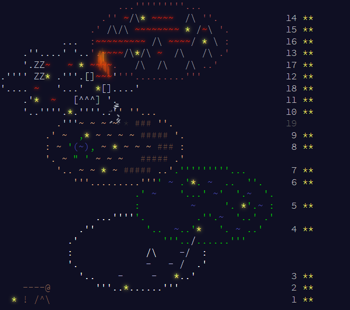
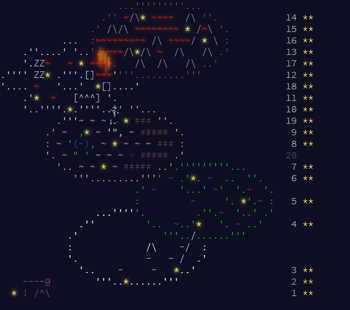
Day 19

diff --git a/2023/main_page/aoc/index_19.html b/2023/main_page/aoc/index_19.html
@@ -1,0 +1,144 @@
+<!DOCTYPE html>
+<html lang="en-us">
+<head>
+<meta charset="utf-8"/>
+<title>Advent of Code 2023</title>
+<!--[if lt IE 9]><script src="html5.js"></script><![endif]-->
+<link href='SourceCodePro.css' rel='stylesheet' type='text/css'>
+<link rel="stylesheet" type="text/css" href="style.css"/>
+<link rel="stylesheet alternate" type="text/css" href="highcontrast.css?0" title="High Contrast"/>
+<link rel="shortcut icon" href="favicon.png"/>
+</head><body>
+<main>
+<style>
+.calendar .calendar-color-a { color:#a5a8af; }
+.calendar .gearfall {
+  position: relative;
+}
+.calendar .gearfall > span {
+  position: absolute;
+  animation: anim-calendar-gearfall-b 3s linear infinite;
+  display: inline-block;
+  color: #d4dde4;
+  pointer-events: none;
+}
+.calendar .gearfall > span.gearfall-whozit, .calendar .gearfall > span.gearfall-whatzit, .calendar .gearfall > span.gearfall-thingamabob {
+  animation-name: anim-calendar-gearfall-t;
+}
+@keyframes anim-calendar-gearfall-b {
+    0% { transform: translateY(0)   rotate(0)     translateY(-.5ch); opacity:0.0; }
+   20% {                                                             opacity:1.0; }
+   80% {                                                             opacity:1.0; }
+  100% { transform: translateY(4ch) rotate(2turn) translateY(-.5ch); opacity:0.0; }
+}
+@keyframes anim-calendar-gearfall-t {
+    0% { transform: translateY(0)   rotate(0)     translateY(.5ch); opacity:0.0; }
+   10% {                                                            opacity:1.0; }
+   90% {                                                            opacity:1.0; }
+  100% { transform: translateY(4ch) rotate(2turn) translateY(.5ch); opacity:0.0; }
+}
+
+.calendar .calendar-color-n { color:#9b715b; }
+.calendar .calendar-color-m { color:#d4dde4; }
+.calendar .calendar-color-k { color:#6b4d3b; }
+.calendar .calendar-color-b { color:#5555bb; }
+.calendar .calendar-color-v { color:#df2308; text-shadow:0 0 5px #df2308, 0 0 10px #df2308; }
+.calendar .calendar-color-w { color:#ffffff; }
+.calendar .calendar-color-s { color:#e3b585; }
+.calendar .calendar-color-g { color:#00cc00; }
+.calendar .calendar-color-l { color:#ccccff; }
+.calendar .calendar-color-y { color:#ffff66; text-shadow:0 0 5px #ffff66, 0 0 10px #ffff66; }
+.calendar .calendar-color-i { color:#a25151; }
+.calendar .lavafall {
+  position: relative;
+}
+.calendar .lavafall > span {
+  position: absolute;
+  animation: anim-calendar-lavafall 3s linear infinite;
+  display: inline-block;
+  pointer-events: none;
+}
+@keyframes anim-calendar-lavafall {
+    0% { transform: translateY(0);   opacity:0.0; color:#faa718; text-shadow: 0 0 3px #faa718, 0 0 5px #faa718, 0 0 10px #faa718, 0 0 15px #faa718, 0 0 20px #faa718; }
+   20% {                             opacity:0.8; }
+   80% {                             opacity:0.8; }
+  100% { transform: translateY(3ch); opacity:0.0; color:#df2308; text-shadow: 0 0 3px #df2308, 0 0 5px #df2308, 0 0 10px #df2308, 0 0 15px #df2308, 0 0 20px #df2308; }
+}
+
+</style>
+<pre class="calendar"><a aria-label="Day 14, two stars" href="day_14.html" class="calendar-day14 calendar-verycomplete">                     <span class="calendar-color-i">...'''''''''...</span>                    
+                  <span class="calendar-color-i">.''</span> <span class="calendar-color-v">~</span><span class="calendar-color-a">/\</span><span class="calendar-color-y">*</span> <span class="calendar-color-v">~~~~</span>  <span class="calendar-color-a">/\</span> <span class="calendar-color-i">''.</span>            <span class="calendar-day">14</span> <span class="calendar-mark-complete">*</span><span class="calendar-mark-verycomplete">*</span></a>
+<a aria-label="Day 15, two stars" href="day_15.html" class="calendar-day15 calendar-verycomplete">                <span class="calendar-color-i">.'</span> <span class="calendar-color-a">/\/\</span> <span class="calendar-color-v">~~~~~~~~</span> <span class="calendar-color-y">*</span> <span class="calendar-color-a">/</span><span class="calendar-color-v">~</span><span class="calendar-color-a">\</span> <span class="calendar-color-i">'.</span>          <span class="calendar-day">15</span> <span class="calendar-mark-complete">*</span><span class="calendar-mark-verycomplete">*</span></a>
+<a aria-label="Day 16, two stars" href="day_16.html" class="calendar-day16 calendar-verycomplete">           <span class="calendar-color-m">...</span>  <span class="calendar-color-i">:</span><span class="calendar-color-v">~~~~~~~~~</span> <span class="calendar-color-a">/\</span> <span class="calendar-color-v">~~~~</span><span class="calendar-color-a">/</span> <span class="calendar-color-y">*</span> <span class="calendar-color-a">\</span> <span class="calendar-color-i">:</span>          <span class="calendar-day">16</span> <span class="calendar-mark-complete">*</span><span class="calendar-mark-verycomplete">*</span></a>
+<a aria-label="Day 13, two stars" href="day_13.html" class="calendar-day13 calendar-verycomplete">    <span class="calendar-color-m">.''....'</span> <span class="calendar-color-m">'..</span><span class="calendar-color-i">'.<span class="lavafall" style=""><span style="left:4.5px;top:4.5px;animation-delay:-0.05s">|</span><span style="left:9.8px;top:9.8px;animation-delay:-0.71s">|</span><span style="left:-1.6px;top:-1.6px;animation-delay:-0.69s">|</span><span style="left:-7.1px;top:-7.1px;animation-delay:-1.22s">|</span><span style="left:4.2px;top:4.2px;animation-delay:-1.82s">|</span><span style="left:10.5px;top:10.5px;animation-delay:-0.50s">|</span><span style="left:-4.4px;top:-4.4px;animation-delay:-2.00s">|</span><span style="left:-0.8px;top:-0.8px;animation-delay:-2.93s">|</span><span style="left:-7.2px;top:-7.2px;animation-delay:-1.52s">|</span><span style="left:-9.7px;top:-9.7px;animation-delay:-1.24s">|</span><span style="left:-9.4px;top:-9.4px;animation-delay:-2.23s">|</span><span style="left:-5.2px;top:-5.2px;animation-delay:-2.67s">|</span><span style="left:1.8px;top:1.8px;animation-delay:-0.64s">|</span><span style="left:-4.9px;top:-4.9px;animation-delay:-0.69s">|</span><span style="left:10.2px;top:10.2px;animation-delay:-1.10s">|</span><span style="left:5.0px;top:5.0px;animation-delay:-0.23s">|</span><span style="left:-7.1px;top:-7.1px;animation-delay:-0.10s">|</span><span style="left:10.0px;top:10.0px;animation-delay:-2.85s">|</span><span style="left:5.1px;top:5.1px;animation-delay:-2.38s">|</span><span style="left:2.8px;top:2.8px;animation-delay:-2.55s">|</span></span></span><span class="calendar-color-v">~~~~</span><span class="calendar-color-a">/\</span><span class="calendar-color-y">*</span><span class="calendar-color-a">/\</span> <span class="calendar-color-v">~</span>  <span class="calendar-color-a">/\</span>   <span class="calendar-color-a">/\</span> <span class="calendar-color-i">.'</span>          <span class="calendar-day">13</span> <span class="calendar-mark-complete">*</span><span class="calendar-mark-verycomplete">*</span></a>
+<a aria-label="Day 17, two stars" href="day_17.html" class="calendar-day17 calendar-verycomplete">    <span class="calendar-color-m">'.ZZ</span><span class="calendar-color-v">~</span>   <span class="calendar-color-v">~</span> <span class="calendar-color-y">*</span> <span class="calendar-color-v">~~~~</span><span class="calendar-color-i">.</span>   <span class="calendar-color-a">/\</span>  <span class="calendar-color-a">/\</span>   <span class="calendar-color-a">/\</span> <span class="calendar-color-i">..'</span>            <span class="calendar-day">17</span> <span class="calendar-mark-complete">*</span><span class="calendar-mark-verycomplete">*</span></a>
+<a aria-label="Day 12, two stars" href="day_12.html" class="calendar-day12 calendar-verycomplete"><span class="calendar-color-m">.''''</span> <span class="calendar-color-m">ZZ</span><span class="calendar-color-y">*</span> <span class="calendar-color-m">.'''.[]</span><span class="calendar-color-v">~~~</span><span class="calendar-color-m">'</span><span class="calendar-color-i">'''.........'''</span>               <span class="calendar-day">12</span> <span class="calendar-mark-complete">*</span><span class="calendar-mark-verycomplete">*</span></a>
+<a aria-label="Day 18, two stars" href="day_18.html" class="calendar-day18 calendar-verycomplete"><span class="calendar-color-m">'....</span> <span class="calendar-color-v">~</span>   <span class="calendar-color-m">'...'</span>  <span class="calendar-color-y">*</span><span class="calendar-color-m">[]....'</span>                          <span class="calendar-day">18</span> <span class="calendar-mark-complete">*</span><span class="calendar-mark-verycomplete">*</span></a>
+<a aria-label="Day 11, two stars" href="day_11.html" class="calendar-day11 calendar-verycomplete">    <span class="calendar-color-m">.'</span><span class="calendar-color-y">*</span>  <span class="calendar-color-v">~</span>   <span class="calendar-color-m">[^^^]</span> <span class="calendar-color-m">'.</span>                              <span class="calendar-day">11</span> <span class="calendar-mark-complete">*</span><span class="calendar-mark-verycomplete">*</span></a>
+<a aria-label="Day 10, two stars" href="day_10.html" class="calendar-day10 calendar-verycomplete">    <span class="calendar-color-m">'..''''.</span><span class="calendar-color-y">*</span><span class="calendar-color-m">.''''.<span class="gearfall" style=""><span class="gearfall-thingamabob" style="left:3.3px;top:-3.3px;animation-delay:-2.06s">'</span><span class="gearfall-gadget" style="left:9.9px;top:-9.9px;animation-delay:-2.91s">.</span><span class="gearfall-gadget" style="left:17.0px;top:-17.0px;animation-delay:-1.42s">.</span><span class="gearfall-whozit" style="left:3.5px;top:-3.5px;animation-delay:-1.59s">`</span><span class="gearfall-gadget" style="left:3.7px;top:-3.7px;animation-delay:-0.17s">.</span><span class="gearfall-gadget" style="left:8.2px;top:-8.2px;animation-delay:-0.22s">.</span><span class="gearfall-whatzit" style="left:8.2px;top:-8.2px;animation-delay:-0.78s">&quot;</span><span class="gearfall-gizmo" style="left:10.7px;top:-10.7px;animation-delay:-1.21s">,</span><span class="gearfall-whozit" style="left:17.1px;top:-17.1px;animation-delay:-2.66s">`</span><span class="gearfall-gadget" style="left:13.4px;top:-13.4px;animation-delay:-0.60s">.</span></span>.'</span><span class="calendar-color-s">'</span> <span class="calendar-color-s">''...</span>                       <span class="calendar-day">10</span> <span class="calendar-mark-complete">*</span><span class="calendar-mark-verycomplete">*</span></a>
+<a aria-label="Day 19, two stars" href="day_19.html" class="calendar-day19 calendar-verycomplete">          <span class="calendar-color-s">.</span><span class="calendar-color-m">'''</span><span class="calendar-color-s">~</span> <span class="calendar-color-s">~</span> <span class="calendar-color-s">~</span> <span class="calendar-color-m">.</span> <span class="calendar-color-y">*</span> <span class="calendar-color-k">###</span> <span class="calendar-color-s">''.</span>                    <span class="calendar-day">19</span> <span class="calendar-mark-complete">*</span><span class="calendar-mark-verycomplete">*</span></a>
+<a aria-label="Day 9, two stars" href="day_09.html" class="calendar-day9 calendar-verycomplete">        <span class="calendar-color-s">.'</span> <span class="calendar-color-s">~</span>  <span class="calendar-color-g">,</span><span class="calendar-color-y">*</span> <span class="calendar-color-s">~</span> <span class="calendar-color-m">'&quot;,</span> <span class="calendar-color-s">~</span> <span class="calendar-color-k">#####</span> <span class="calendar-color-s">'.</span>                  <span class="calendar-day"> 9</span> <span class="calendar-mark-complete">*</span><span class="calendar-mark-verycomplete">*</span></a>
+<a aria-label="Day 8, two stars" href="day_08.html" class="calendar-day8 calendar-verycomplete">        <span class="calendar-color-s">:</span> <span class="calendar-color-s">~</span> <span class="calendar-color-g">'</span><span class="calendar-color-b">(~)</span><span class="calendar-color-g">,</span> <span class="calendar-color-s">~</span> <span class="calendar-color-y">*</span> <span class="calendar-color-s">~</span> <span class="calendar-color-s">~</span> <span class="calendar-color-s">~</span> <span class="calendar-color-k">###</span> <span class="calendar-color-s">:</span>                  <span class="calendar-day"> 8</span> <span class="calendar-mark-complete">*</span><span class="calendar-mark-verycomplete">*</span></a>
+<span aria-hidden="true" class="calendar-day20">        <span class="calendar-color-s">'.</span> <span class="calendar-color-s">~</span> <span class="calendar-color-g">&quot;</span> <span class="calendar-color-g">'</span> <span class="calendar-color-s">~</span> <span class="calendar-color-s">~</span> <span class="calendar-color-s">~</span> * <span class="calendar-color-k">#####</span> <span class="calendar-color-s">.'</span>                  <span class="calendar-day">20</span><span id="calendar-countdown"></span><script>
+(function(){
+var countdown = document.getElementById("calendar-countdown");
+if (!countdown) return;
+var server_eta = 82985;
+var key = "2023-20-"+server_eta;
+var now = Math.floor(new Date().getTime()/1000);
+var target = server_eta + now;
+if (sessionStorage) {
+  // if you navigate away and hit the back button, this makes sure the countdown doesn't start from the wrong time
+  var prev_target = sessionStorage.getItem("calendar-target");
+  try { prev_target = JSON.parse(prev_target); } catch(e){}
+  if (prev_target && typeof prev_target === 'object' && prev_target.key === key) {
+    target = prev_target.target;
+  } else {
+    sessionStorage.setItem("calendar-target", JSON.stringify({key:key, target:target+1}));
+  }
+}
+
+var interval = null;
+function update_countdown() {
+  var remaining = Math.ceil(target - new Date().getTime()/1000);
+  if (remaining <= 0) {
+    clearInterval(interval);
+    interval = null;
+    countdown.textContent = "";
+
+    var a = document.createElement("a");
+    a[String.fromCharCode(104,114,101,102)] = "/2023" + String.fromCharCode(47,100,97,121,47) + "20";
+    a.className = "calendar-day20 calendar-day-new";
+    var span = countdown.parentNode;
+    while (span.firstChild) {
+      a.appendChild(span.firstChild);
+    }
+    a.appendChild(document.createTextNode("   "));
+    span.parentNode.insertBefore(a, span);
+    span.parentNode.removeChild(span);
+    countdown.parentNode.removeChild(countdown);
+  } else {
+    var hours = Math.floor(remaining/60/60);
+    remaining -= hours * 60 * 60;
+    var minutes = Math.floor(remaining/60);
+    remaining -= minutes * 60;
+    var seconds = remaining;
+    countdown.textContent = (hours < 10 ? "0" : "") + hours + ":" + (minutes < 10 ? "0" : "") + minutes + ":" + (seconds < 10 ? "0" : "") + seconds;
+  }
+}
+})();
+</script></span>
+<a aria-label="Day 7, two stars" href="day_07.html" class="calendar-day7 calendar-verycomplete">          <span class="calendar-color-s">'..</span> <span class="calendar-color-s">~</span> <span class="calendar-color-s">~</span> <span class="calendar-color-y">*</span> <span class="calendar-color-s">~</span> <span class="calendar-color-k">#####</span> <span class="calendar-color-s">..'</span><span class="calendar-color-g">.'''''''''...</span>       <span class="calendar-day"> 7</span> <span class="calendar-mark-complete">*</span><span class="calendar-mark-verycomplete">*</span></a>
+<a aria-label="Day 6, two stars" href="day_06.html" class="calendar-day6 calendar-verycomplete">             <span class="calendar-color-s">'''.........'''</span><span class="calendar-color-g">'</span> <span class="calendar-color-b">~</span> <span class="calendar-color-g">.'</span><span class="calendar-color-y">*</span><span class="calendar-color-g">.</span> <span class="calendar-color-b">~</span>  <span class="calendar-color-g">..</span>  <span class="calendar-color-g">''.</span>    <span class="calendar-day"> 6</span> <span class="calendar-mark-complete">*</span><span class="calendar-mark-verycomplete">*</span></a>
+<span aria-hidden="true" class="">                        <span class="calendar-color-g">.'</span> <span class="calendar-color-b">~</span>    <span class="calendar-color-g">'...'</span> <span class="calendar-color-b">~</span><span class="calendar-color-g">'</span>  <span class="calendar-color-g">'.</span><span class="calendar-color-b">~</span>  <span class="calendar-color-g">'.</span></span>
+<a aria-label="Day 5, two stars" href="day_05.html" class="calendar-day5 calendar-verycomplete">                        <span class="calendar-color-g">:</span>         <span class="calendar-color-b">~</span>     <span class="calendar-color-g">'.</span> <span class="calendar-color-y">*</span><span class="calendar-color-g">'.</span><span class="calendar-color-b">~</span> <span class="calendar-color-g">:</span>  <span class="calendar-day"> 5</span> <span class="calendar-mark-complete">*</span><span class="calendar-mark-verycomplete">*</span></a>
+<span aria-hidden="true" class="">                 <span class="calendar-color-w">...''''</span><span class="calendar-color-g">'.</span>         <span class="calendar-color-g">.''.</span><span class="calendar-color-b">~</span>  <span class="calendar-color-g">'..'</span> <span class="calendar-color-g">.'</span></span>
+<a aria-label="Day 4, two stars" href="day_04.html" class="calendar-day4 calendar-verycomplete">              <span class="calendar-color-w">.''</span>         <span class="calendar-color-g">'..</span>  <span class="calendar-color-b">~</span><span class="calendar-color-g">..'</span><span class="calendar-color-y">*</span>   <span class="calendar-color-g">'.</span> <span class="calendar-color-b">~</span> <span class="calendar-color-g">..'</span>    <span class="calendar-day"> 4</span> <span class="calendar-mark-complete">*</span><span class="calendar-mark-verycomplete">*</span></a>
+<span aria-hidden="true" class="">            <span class="calendar-color-w">.'</span>               <span class="calendar-color-g">'''..</span><span class="calendar-color-m">/</span><span class="calendar-color-g">......'''</span>     </span>
+<span aria-hidden="true" class="">            <span class="calendar-color-w">:</span>             <span class="calendar-color-w">/\</span>    <span class="calendar-color-l">-</span><span class="calendar-color-m">/</span>  <span class="calendar-color-w">:</span>            </span>
+<span aria-hidden="true" class="">            <span class="calendar-color-w">'.</span>            <span class="calendar-color-l">-</span>   <span class="calendar-color-l">-</span> <span class="calendar-color-m">/</span>  <span class="calendar-color-w">.'</span>            </span>
+<a aria-label="Day 3, two stars" href="day_03.html" class="calendar-day3 calendar-verycomplete">              <span class="calendar-color-w">'..</span>    <span class="calendar-color-l">-</span>     <span class="calendar-color-l">-</span>   <span class="calendar-color-y">*</span><span class="calendar-color-w">..'</span>                <span class="calendar-day"> 3</span> <span class="calendar-mark-complete">*</span><span class="calendar-mark-verycomplete">*</span></a>
+<a aria-label="Day 2, two stars" href="day_02.html" class="calendar-day2 calendar-verycomplete">    <span class="calendar-color-n">----@</span>        <span class="calendar-color-w">'''..</span><span class="calendar-color-y">*</span><span class="calendar-color-w">......'''</span>                   <span class="calendar-day"> 2</span> <span class="calendar-mark-complete">*</span><span class="calendar-mark-verycomplete">*</span></a>
+<a aria-label="Day 1, two stars" href="day_01.html" class="calendar-day1 calendar-verycomplete">  <span class="calendar-color-y">*</span> <span class="calendar-color-n">!</span> <span class="calendar-color-n">/^\</span>                                          <span class="calendar-day"> 1</span> <span class="calendar-mark-complete">*</span><span class="calendar-mark-verycomplete">*</span></a>
+</pre>
+</main></body></html>
